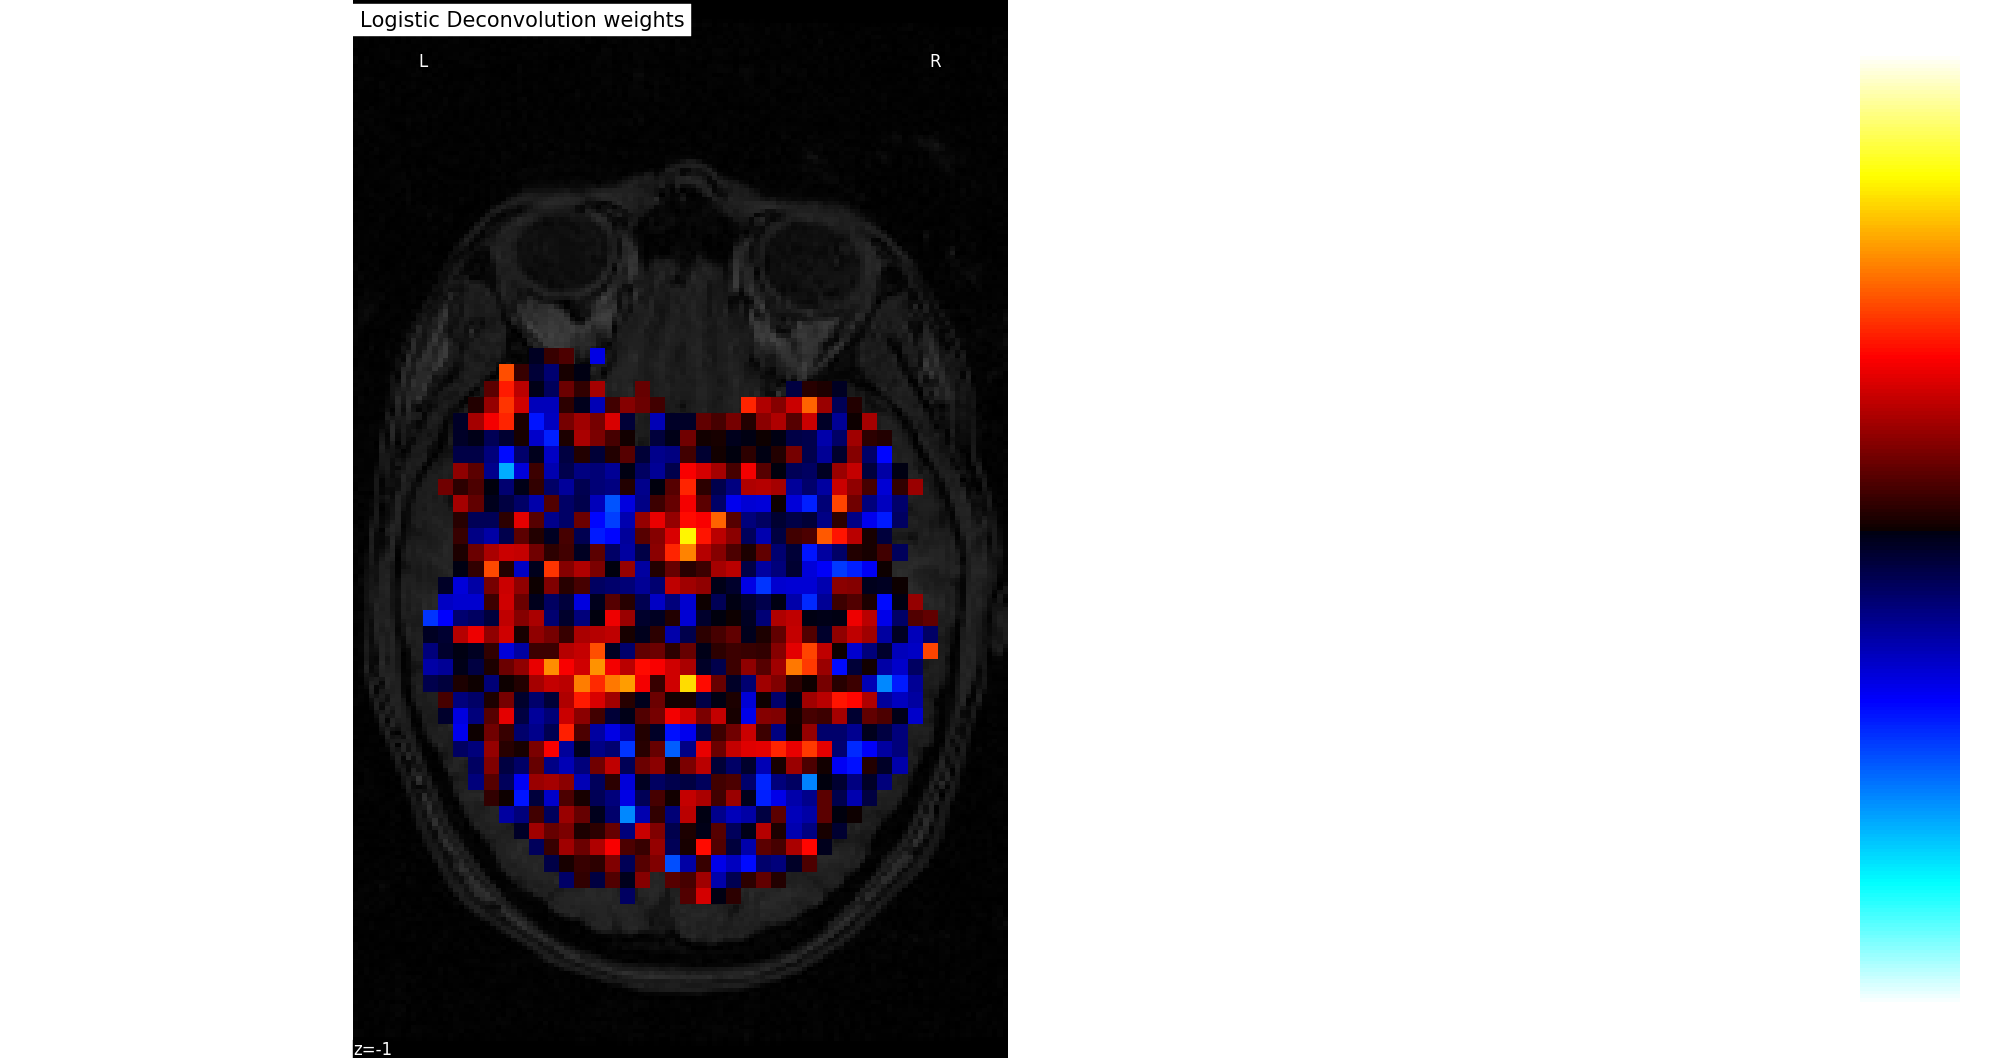
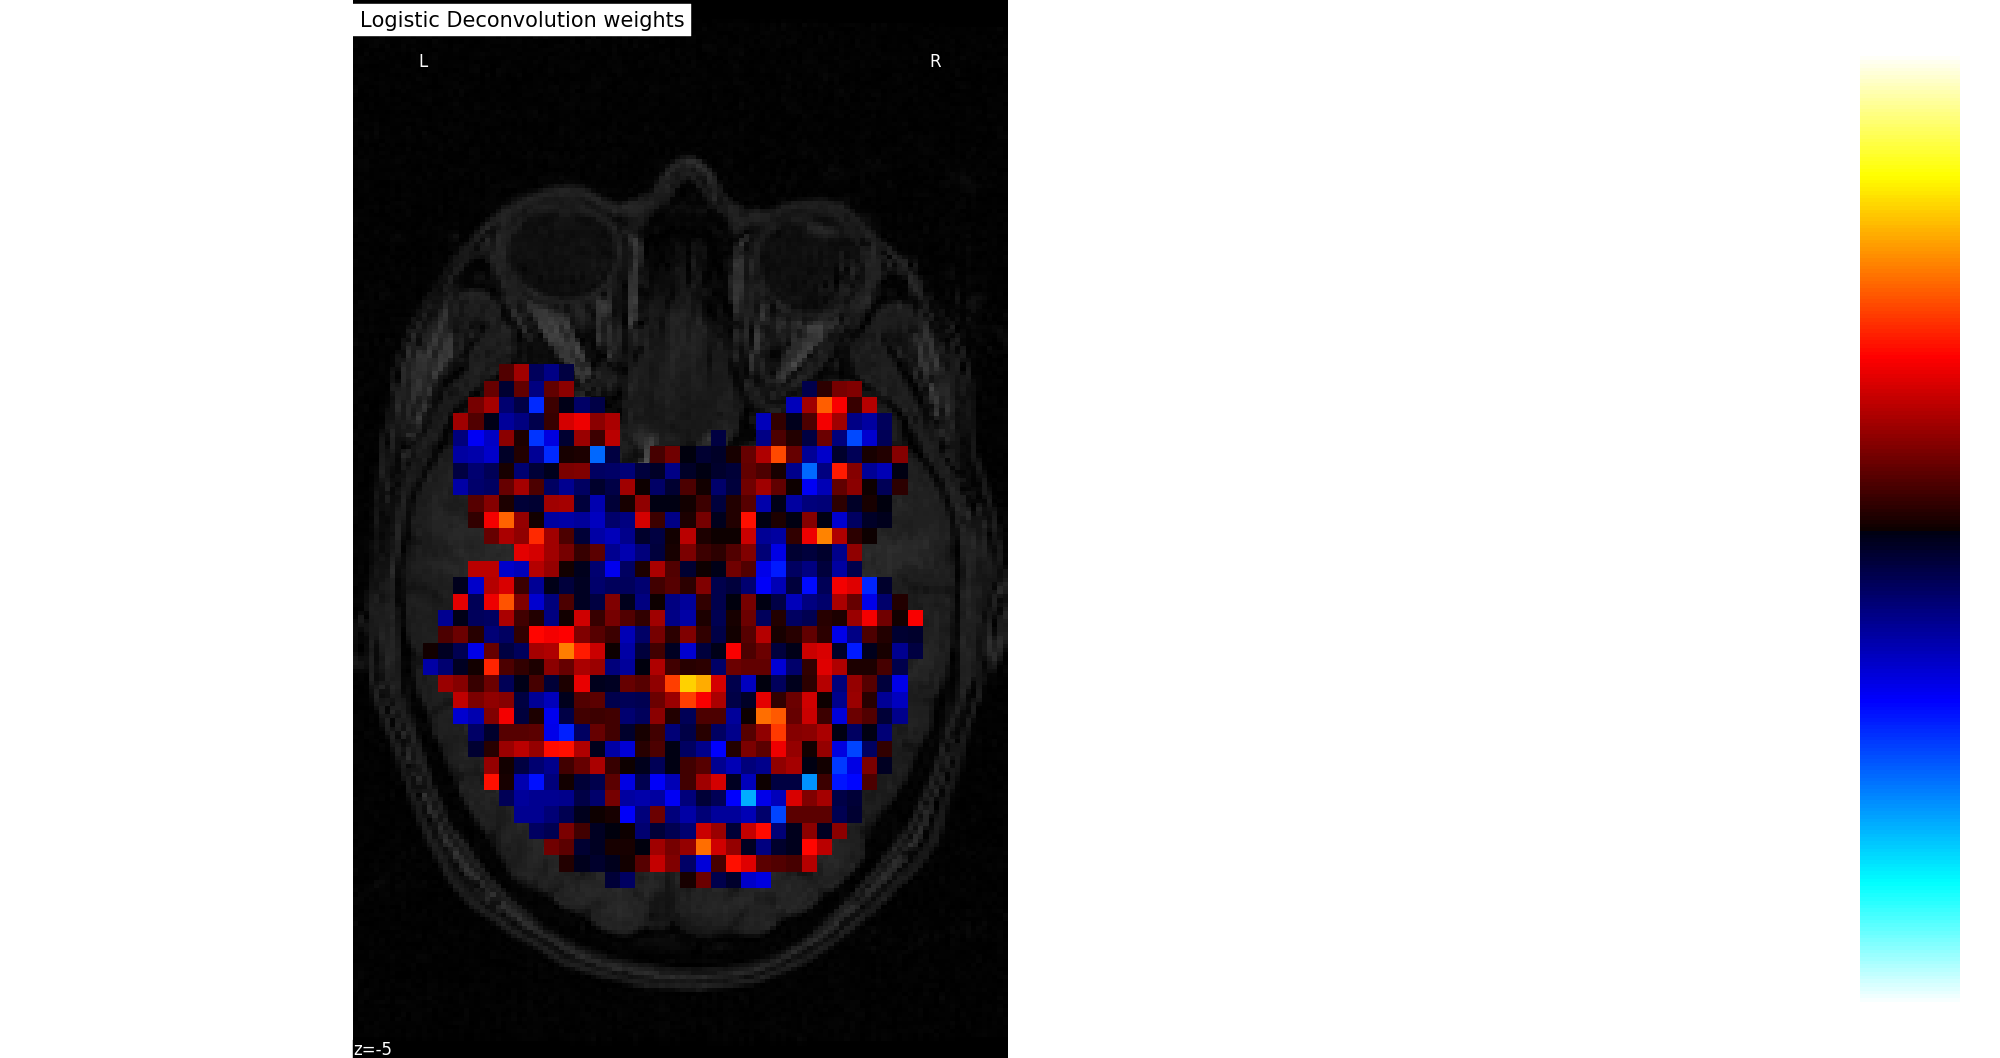
added unthresholded maps and betas for log deconv

diff --git a/scripts/activation_maps_haxby_log_model.py b/scripts/activation_maps_haxby_log_model.py
@@ -59,7 +59,7 @@ threshold = np.percentile(np.abs(coef_map), 98)
 
 # Plot stat map
 plot_stat_map(coef_img, bg_img=haxby_dataset.anat[0],
-              display_mode='z', cut_coords=[-1],
+              display_mode='z', cut_coords=[-5],
               title=model+" weights")
 """
 # Plot time-series
